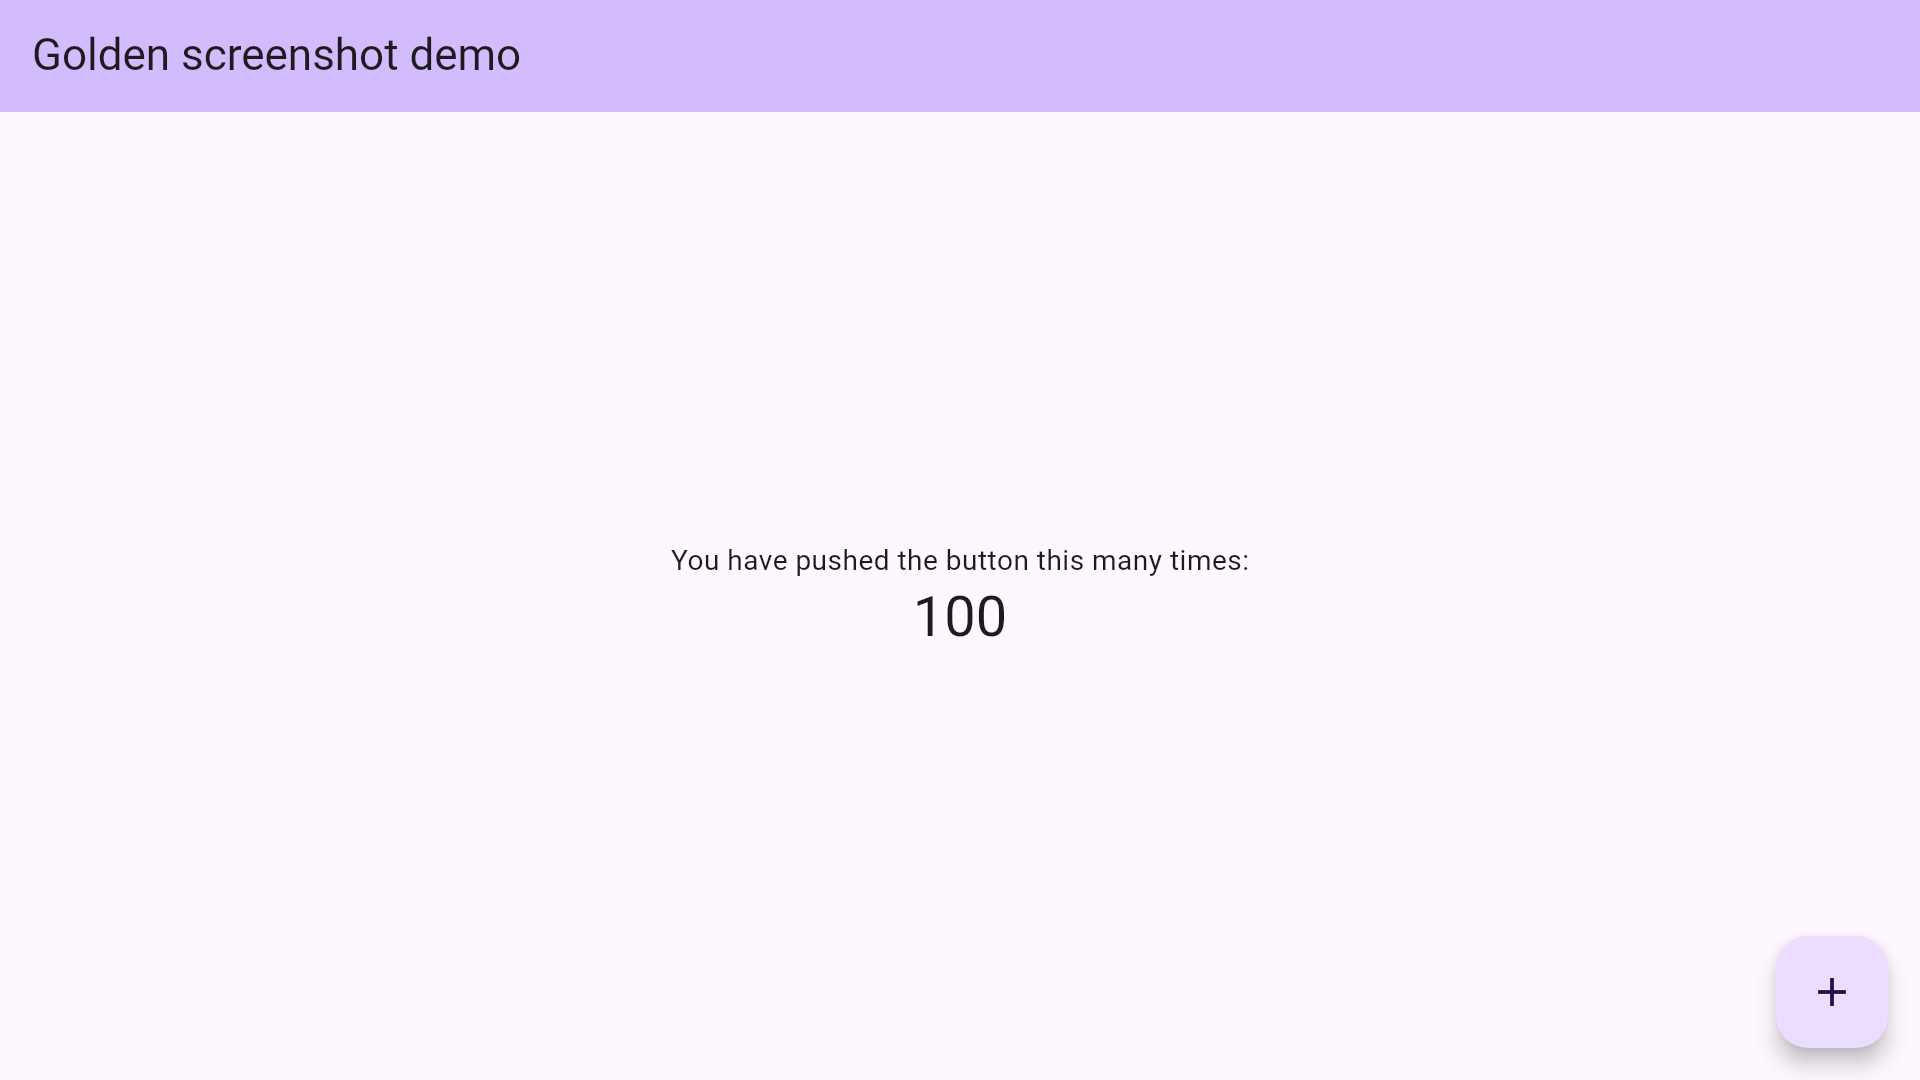
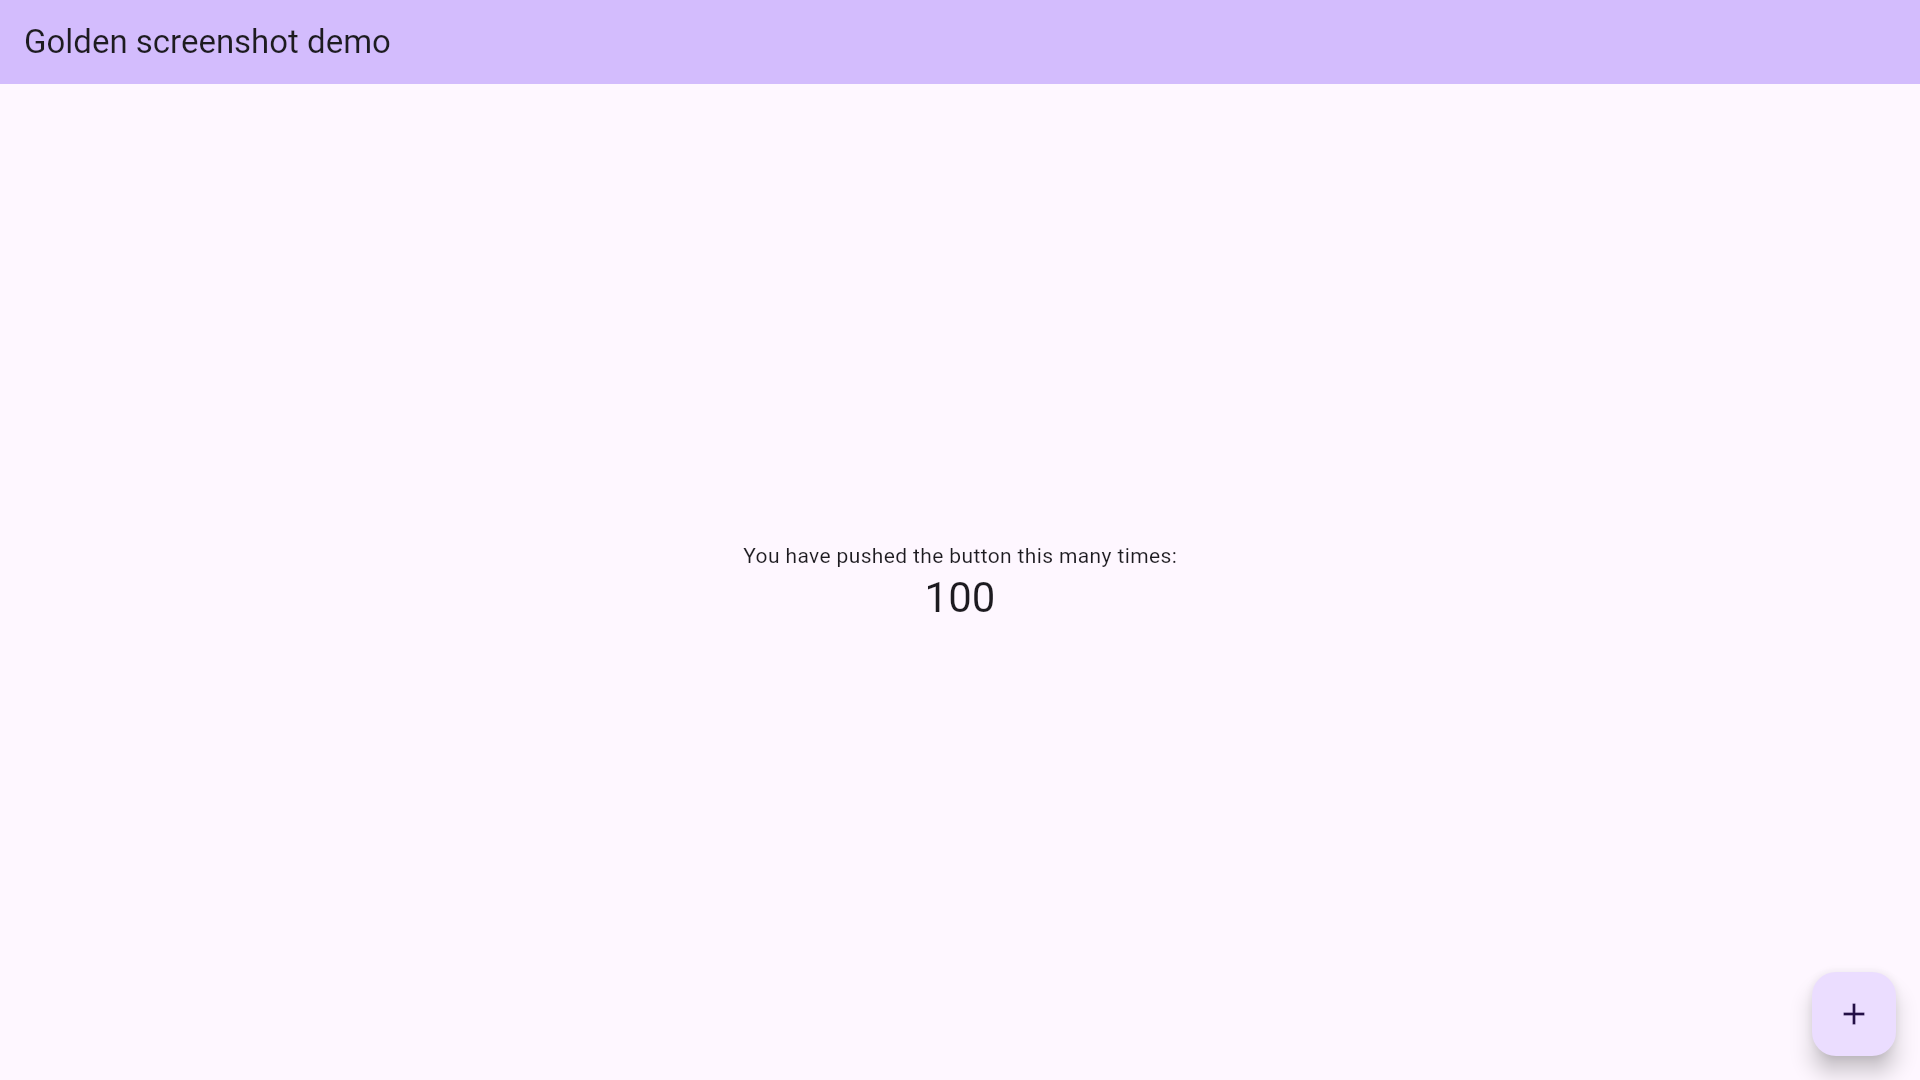
feat!: reduce linux pixel ratio
The 2x pixel ratio made everything too large to fit much on the screen. Also moved back to tenInchScreenshots

Changed region(s): [[0.0, 0.0306, 1.0, 0.1222], [0.375, 0.4889, 0.625, 0.6111], [0.9062, 0.8556, 1.0, 1.0]]

diff --git a/lib/src/screenshot_device.dart b/lib/src/screenshot_device.dart
@@ -12,8 +12,8 @@ enum ScreenshotDevice {
   flathub(
     platform: TargetPlatform.linux,
     resolution: Size(1920, 1080),
-    pixelRatio: 2,
-    goldenFolder: '../metadata/en-US/images/sevenInchScreenshots/',
+    pixelRatio: 1.5,
+    goldenFolder: '../metadata/en-US/images/tenInchScreenshots/',
     frameBuilder: ScreenshotFrame.noFrame,
   ),
 
